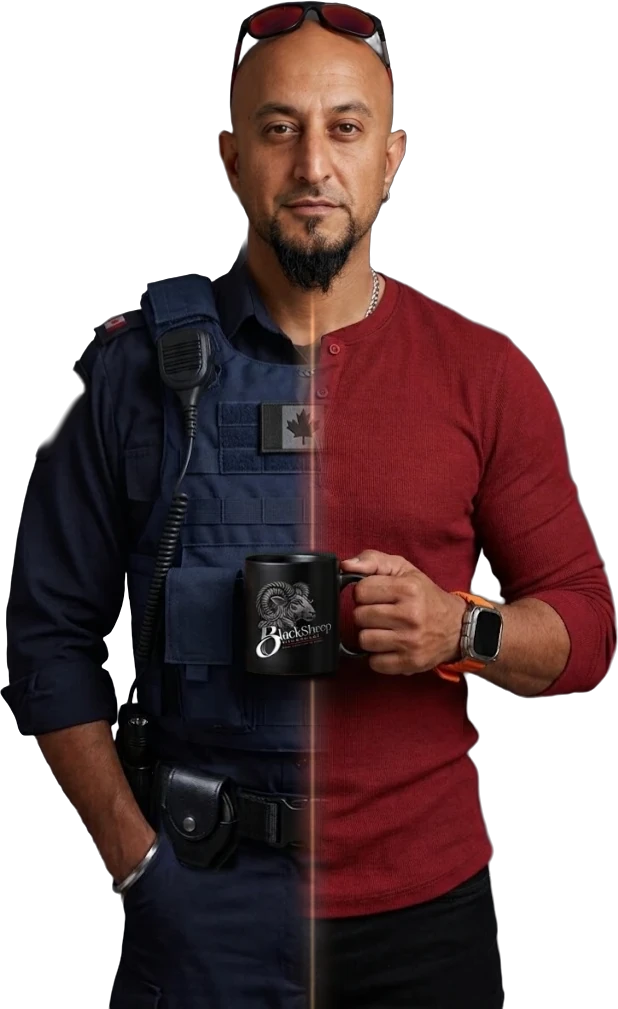
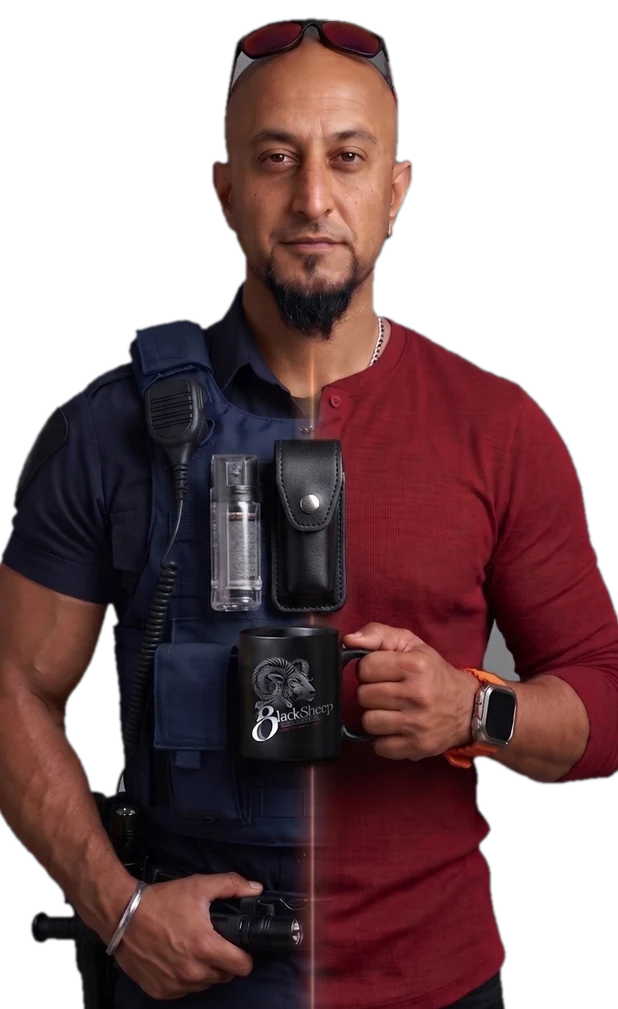
Hero: short-sleeve tailored uniform, tighter tactical vest, OC spray pouch, stronger arms (no firearms)
Claude-Session: https://claude.ai/code/session_01MhApnvSG27p9juGpCCFrhf

diff --git a/index.html b/index.html
@@ -29,7 +29,7 @@
     <div class="glow"></div><div class="ring r2"></div><div class="ring"></div>
     <p class="name" aria-hidden="true"><span class="nN">Nick</span> <i>Mehra</i></p>
     <span class="tagL">Enforcement</span><span class="tagR">Creative</span>
-    <img class="figure" src="/img/nick-hero.webp?v=4" alt="Nick Mehra, half in an enforcement uniform and half in a red henley, holding a BlackSheep Digital Works coffee mug" width="618" height="1009">
+    <img class="figure" src="/img/nick-hero.webp?v=5" alt="Nick Mehra, half in a short-sleeve enforcement uniform and tactical vest and half in a red henley, holding a BlackSheep Digital Works coffee mug" width="618" height="1009">
     <div class="front">
       <p>Owner &amp; Creative Director, BlackSheep Digital Works</p>
       <h1>Almost two decades behind a badge. Now behind a lens.</h1>
